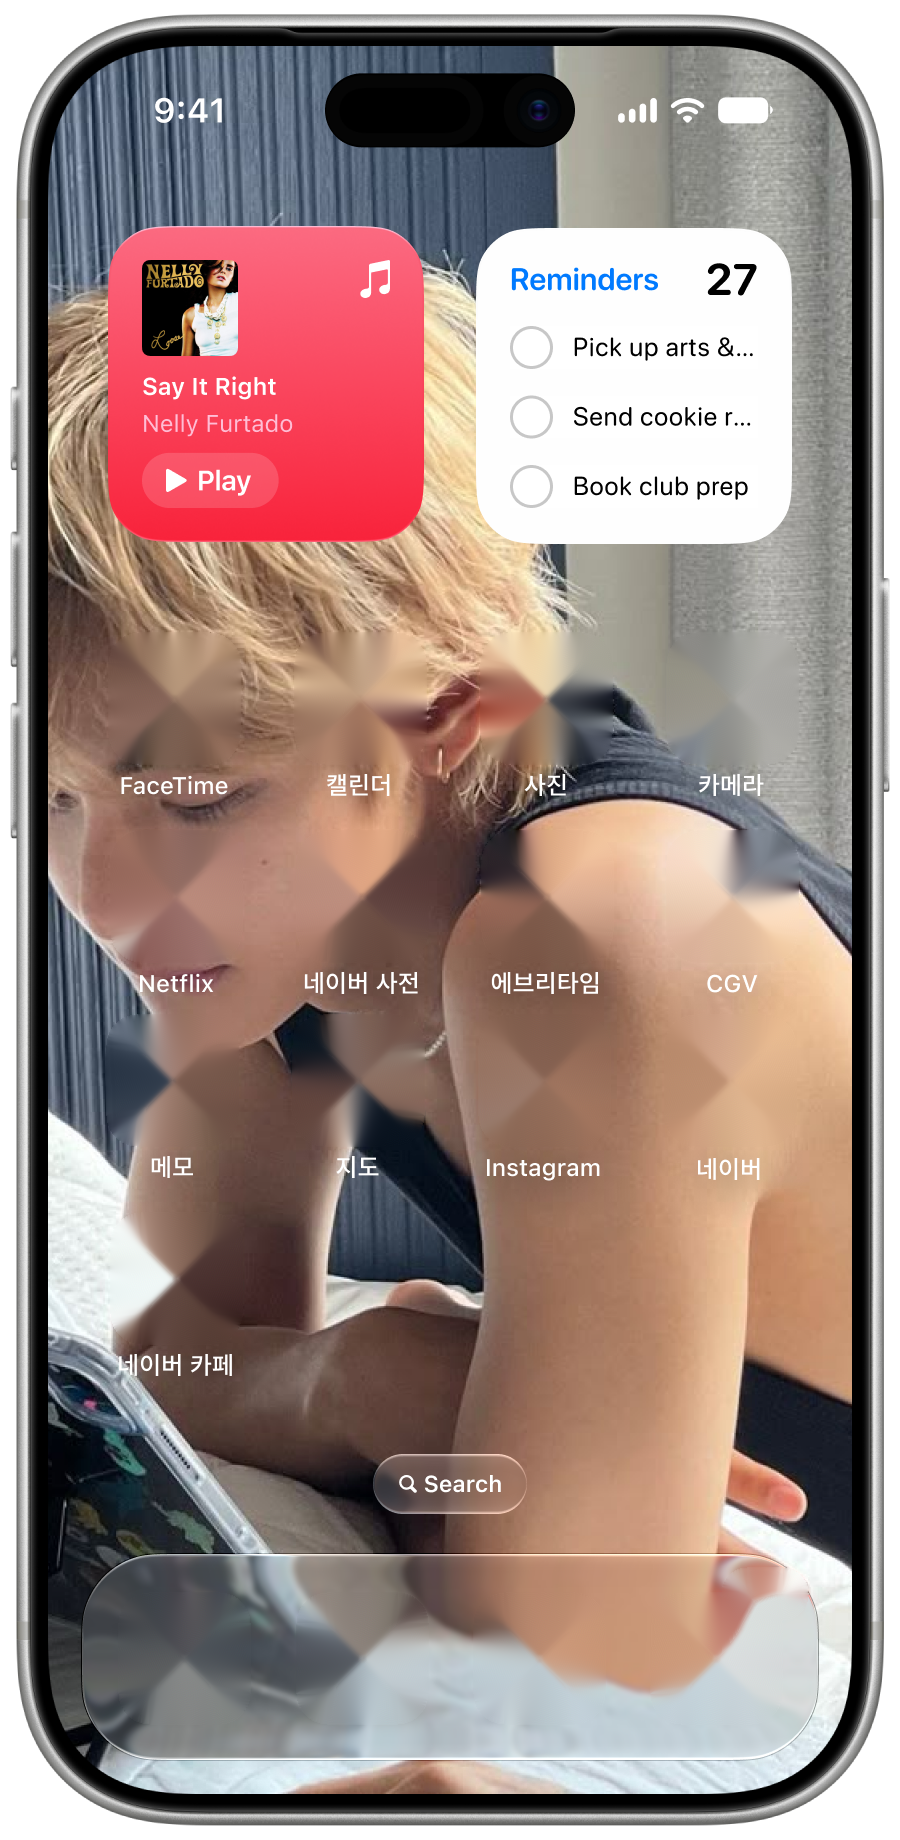
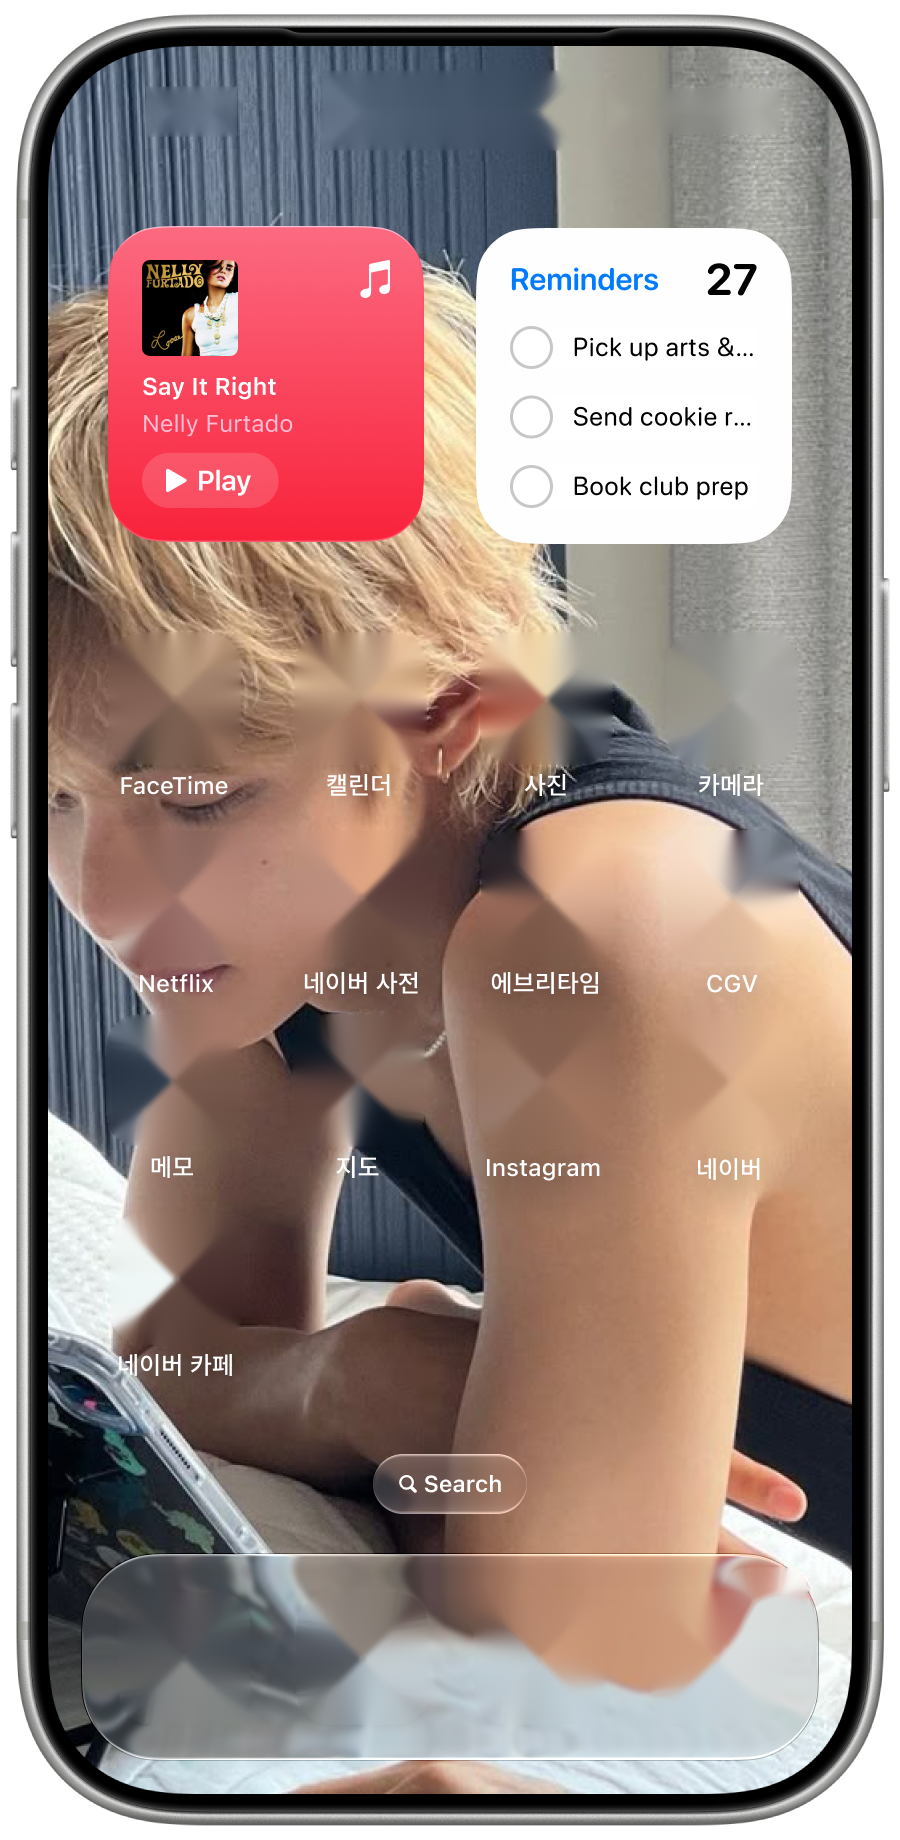
Add files via upload

Changed region(s): [[0.3422, 0.031, 0.6533, 0.0929], [0.1556, 0.031, 0.2489, 0.0929], [0.7467, 0.031, 0.8711, 0.0929]]

diff --git a/public/index.html b/public/index.html
@@ -3,13 +3,16 @@
 <head>
 <meta charset="utf-8">
 <meta name="viewport" content="width=device-width, initial-scale=1, viewport-fit=cover">
+<meta name="apple-mobile-web-app-capable" content="yes">
+<meta name="mobile-web-app-capable" content="yes">
+<meta name="apple-mobile-web-app-status-bar-style" content="black-translucent">
+<meta name="theme-color" content="#000000">
+<link rel="apple-touch-icon" href="icon.png">
 <title>내 아이폰 홈 화면</title>
 <link rel="stylesheet" href="https://fonts.googleapis.com/css2?family=Noto+Sans+KR:wght@400;500;600;700&display=swap">
 <style>
 html,body{margin:0}
-html{box-sizing:border-box}
-:root{padding-top:env(safe-area-inset-top,0px);padding-bottom:env(safe-area-inset-bottom,0px)}
-/* Layout: one phone, centered on a quiet stage, with a single line of gesture hints underneath. */
+/* Layout: on a computer, one phone centered on a quiet stage; on a phone, the screen alone fills the display edge to edge. */
 :root{
   --stage:#ebeaef; --ink:#2b2931; --muted:#76727e; --chip:#ffffffcc; --chip-line:#d8d6de;
   --ios:-apple-system,BlinkMacSystemFont,"SF Pro Text","Apple SD Gothic Neo","Noto Sans KR",system-ui,sans-serif;
@@ -77,15 +80,18 @@ body{background:var(--stage);color:var(--ink);font-family:var(--ios);display:fle
 .sitem{display:flex;flex-direction:column;align-items:center;gap:calc(var(--u)*10);background:none;border:0;cursor:pointer;color:#fff;font:400 calc(var(--u)*22)/1.2 var(--ios);padding:0}
 .sitem span:first-child{width:calc(var(--u)*118);height:calc(var(--u)*118);border-radius:22.6%}
 .sempty{color:rgba(255,255,255,.75);font:400 calc(var(--u)*27)/1.4 var(--ios)}
-.hint{font:500 13px/1.4 "Noto Sans KR",var(--ios);color:var(--muted);text-align:center;display:flex;flex-wrap:wrap;justify-content:center;gap:6px 8px;max-width:440px}
-.hint b{font-weight:600;color:var(--ink);background:var(--chip);border:1px solid var(--chip-line);border-radius:99px;padding:3px 10px}
+/* full-screen mode on phones */
+body.full{background:#000;padding:0;display:block}
+body.full .phone{position:fixed;max-width:none;filter:none;aspect-ratio:auto;background:url(base-full.jpg) no-repeat;background-size:89.5556% 95.0543%;background-position:50.0000% 50.5495%}
+body.full .screen{border-radius:0}
+body.full .frame-only,body.full .app .time{display:none}
+body.full .homebar{padding-bottom:calc(var(--u)*70)}
 @media (prefers-reduced-motion: reduce){.app,.search{transition-duration:.01s}.jiggle .tile,.jiggle .badge,.eq i{animation:none}}
 </style>
 </head>
 <body>
 
 <div class="phone" id="phone" aria-label="아이폰 홈 화면 프로토타입"></div>
-<div class="hint"><b>탭</b> 앱 열기 <b>길게 누르기</b> 편집 모드 <b>하단 바 위로 밀기</b> 홈으로</div>
 
 <script>
 const W=900,H=1840, SX=47,SY=46,SW=806,SH=1749;
@@ -103,7 +109,17 @@ function place(el,x,y,w,h){Object.assign(el.style,{left:x/W*100+'%',top:y/H*100+
 function crop(el,x,y,w,h){el.classList.add('crop');el.style.backgroundSize=`${W/w*100}% ${H/h*100}%`;el.style.backgroundPosition=`${x/(W-w)*100}% ${y/(H-h)*100}%`;return el}
 function mk(cls,parent=phone){const d=document.createElement('div');if(cls)d.className=cls;parent.appendChild(d);return d}
 function resize(){phone.style.setProperty('--u',phone.getBoundingClientRect().width/W+'px')}
-new ResizeObserver(resize).observe(phone);resize();
+new ResizeObserver(resize).observe(phone);
+const fullMQ=matchMedia('(max-width: 600px)');
+function layout(){
+  const full=fullMQ.matches;document.body.classList.toggle('full',full);
+  if(full){const vw=innerWidth,vh=innerHeight,u=Math.max(vw/SW,vh/SH);
+    Object.assign(phone.style,{width:W*u+'px',height:H*u+'px',left:((vw-SW*u)/2-SX*u)+'px',top:((vh-SH*u)/2-SY*u)+'px'})}
+  else Object.assign(phone.style,{width:'',height:'',left:'',top:''});
+  resize()}
+addEventListener('resize',layout);fullMQ.addEventListener?.('change',layout);layout();
+/* the drawn status bar (time, signal, battery) shows only inside the phone frame */
+const statusBar=crop(place(mk('frame-only'),140,80,650,62),140,80,650,62);statusBar.style.pointerEvents='none';
 
 /* icon tiles */
 const tiles={};
@@ -142,7 +158,7 @@ phone.addEventListener('pointerdown',e=>{if(e.target===phone&&phone.classList.co
 
 /* screen layer (app + search live inside the rounded screen) */
 const screen=place(mk('screen'),SX,SY,SW,SH);
-const island=crop(place(mk(''),326,73,248,74),326,73,248,74);island.style.borderRadius='99px';island.style.zIndex=5;island.style.pointerEvents='none';
+const island=crop(place(mk('frame-only'),326,73,248,74),326,73,248,74);island.style.borderRadius='99px';island.style.zIndex=5;island.style.pointerEvents='none';
 const done=document.createElement('button');done.className='done';done.textContent='완료';done.hidden=true;screen.appendChild(done);done.onclick=endEdit;
 
 function bindPress(el,onTap,opt={}){

diff --git a/README.md b/README.md
@@ -1,16 +1,4 @@
 # 아이폰 홈 화면 프로토타입
-
-## 파일 구성
-- `public/index.html` — 화면 + 인터랙션 코드 전체 (HTML/CSS/JS 한 파일)
-- `public/home.png` — Figma에서 내보낸 원본 홈 화면
-- `public/base.png` — 아이콘을 지운 배경 (아이콘 흔들기·앱 열기 애니메이션용)
-
-## Vercel 배포
-1. 이 폴더를 GitHub 저장소에 올린 뒤 vercel.com → Add New → Project → 저장소 선택
-2. Framework Preset: **Other**, Output Directory: **public** (Build Command는 비워두기)
-3. Deploy
-
-또는 터미널에서: `npx vercel` → 질문에 엔터로 진행 (Output Directory만 `public`)
-
-## 로컬에서 보기
-`npx serve public` 후 브라우저에서 열기 (파일을 더블클릭해도 동작해요)
+- public/index.html: 화면과 움직이는 코드
+- public/home.png, base.png, base-full.jpg, icon.png: 화면 이미지
+Vercel: GitHub에 올린 뒤 Import → Deploy
